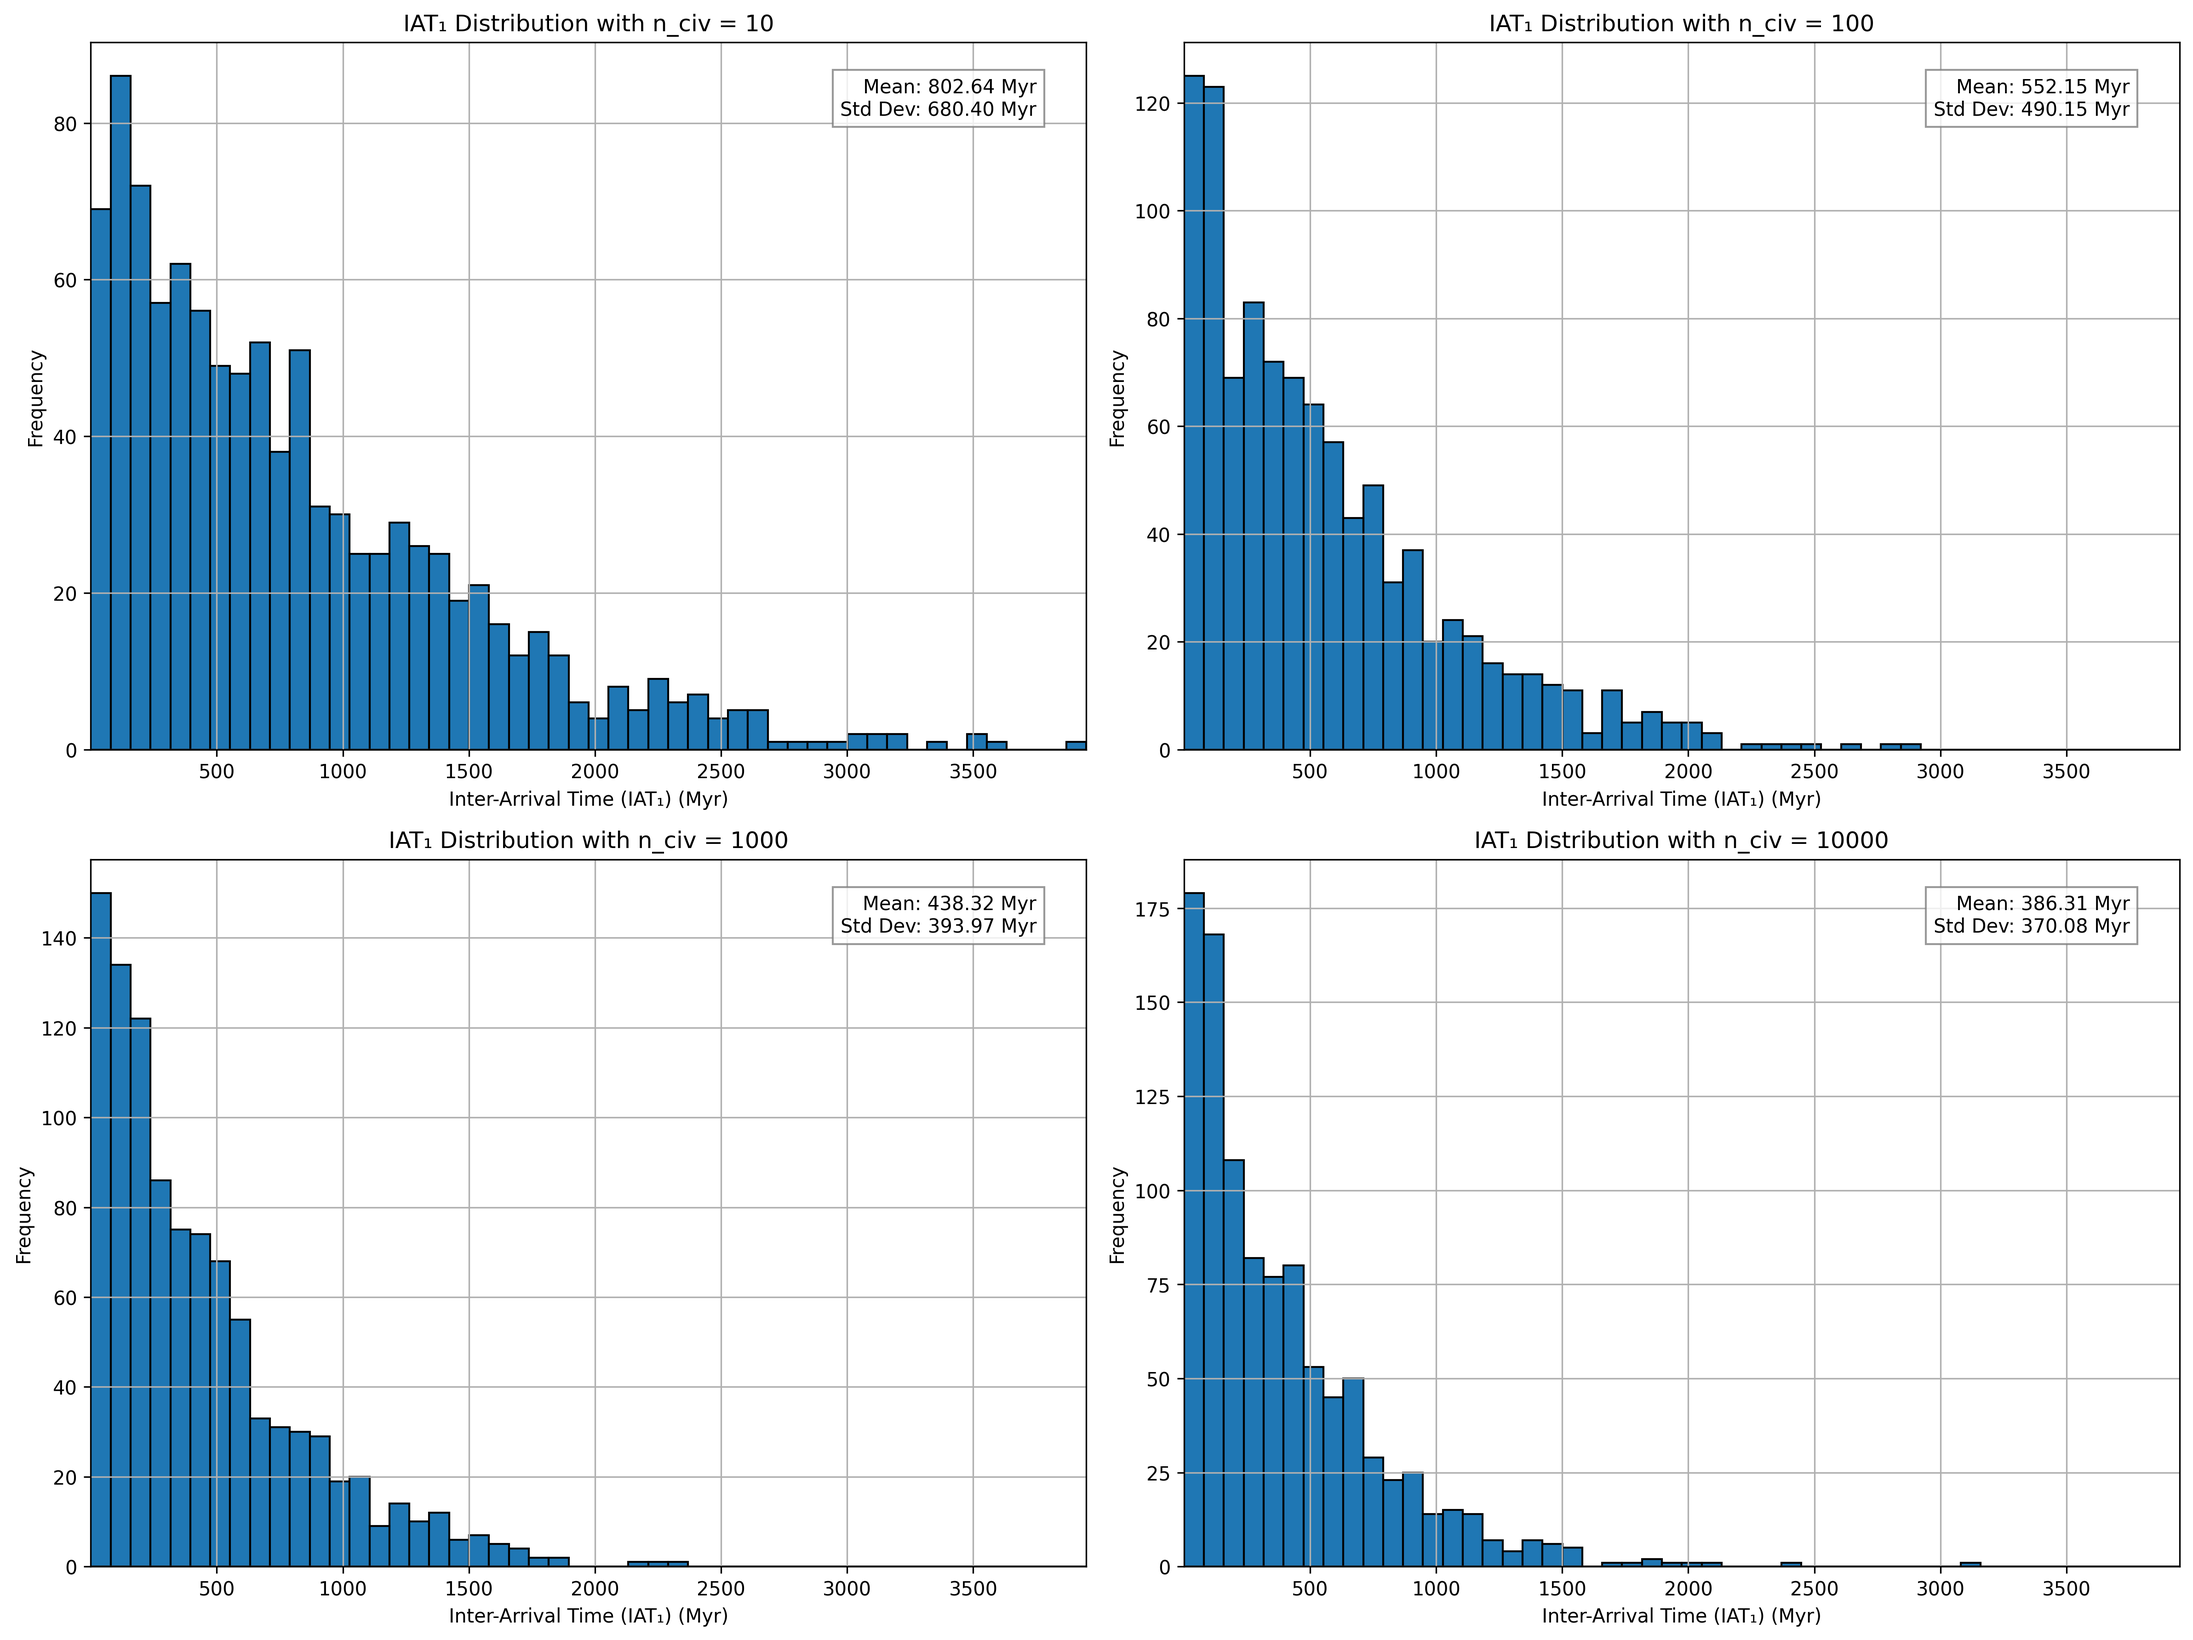
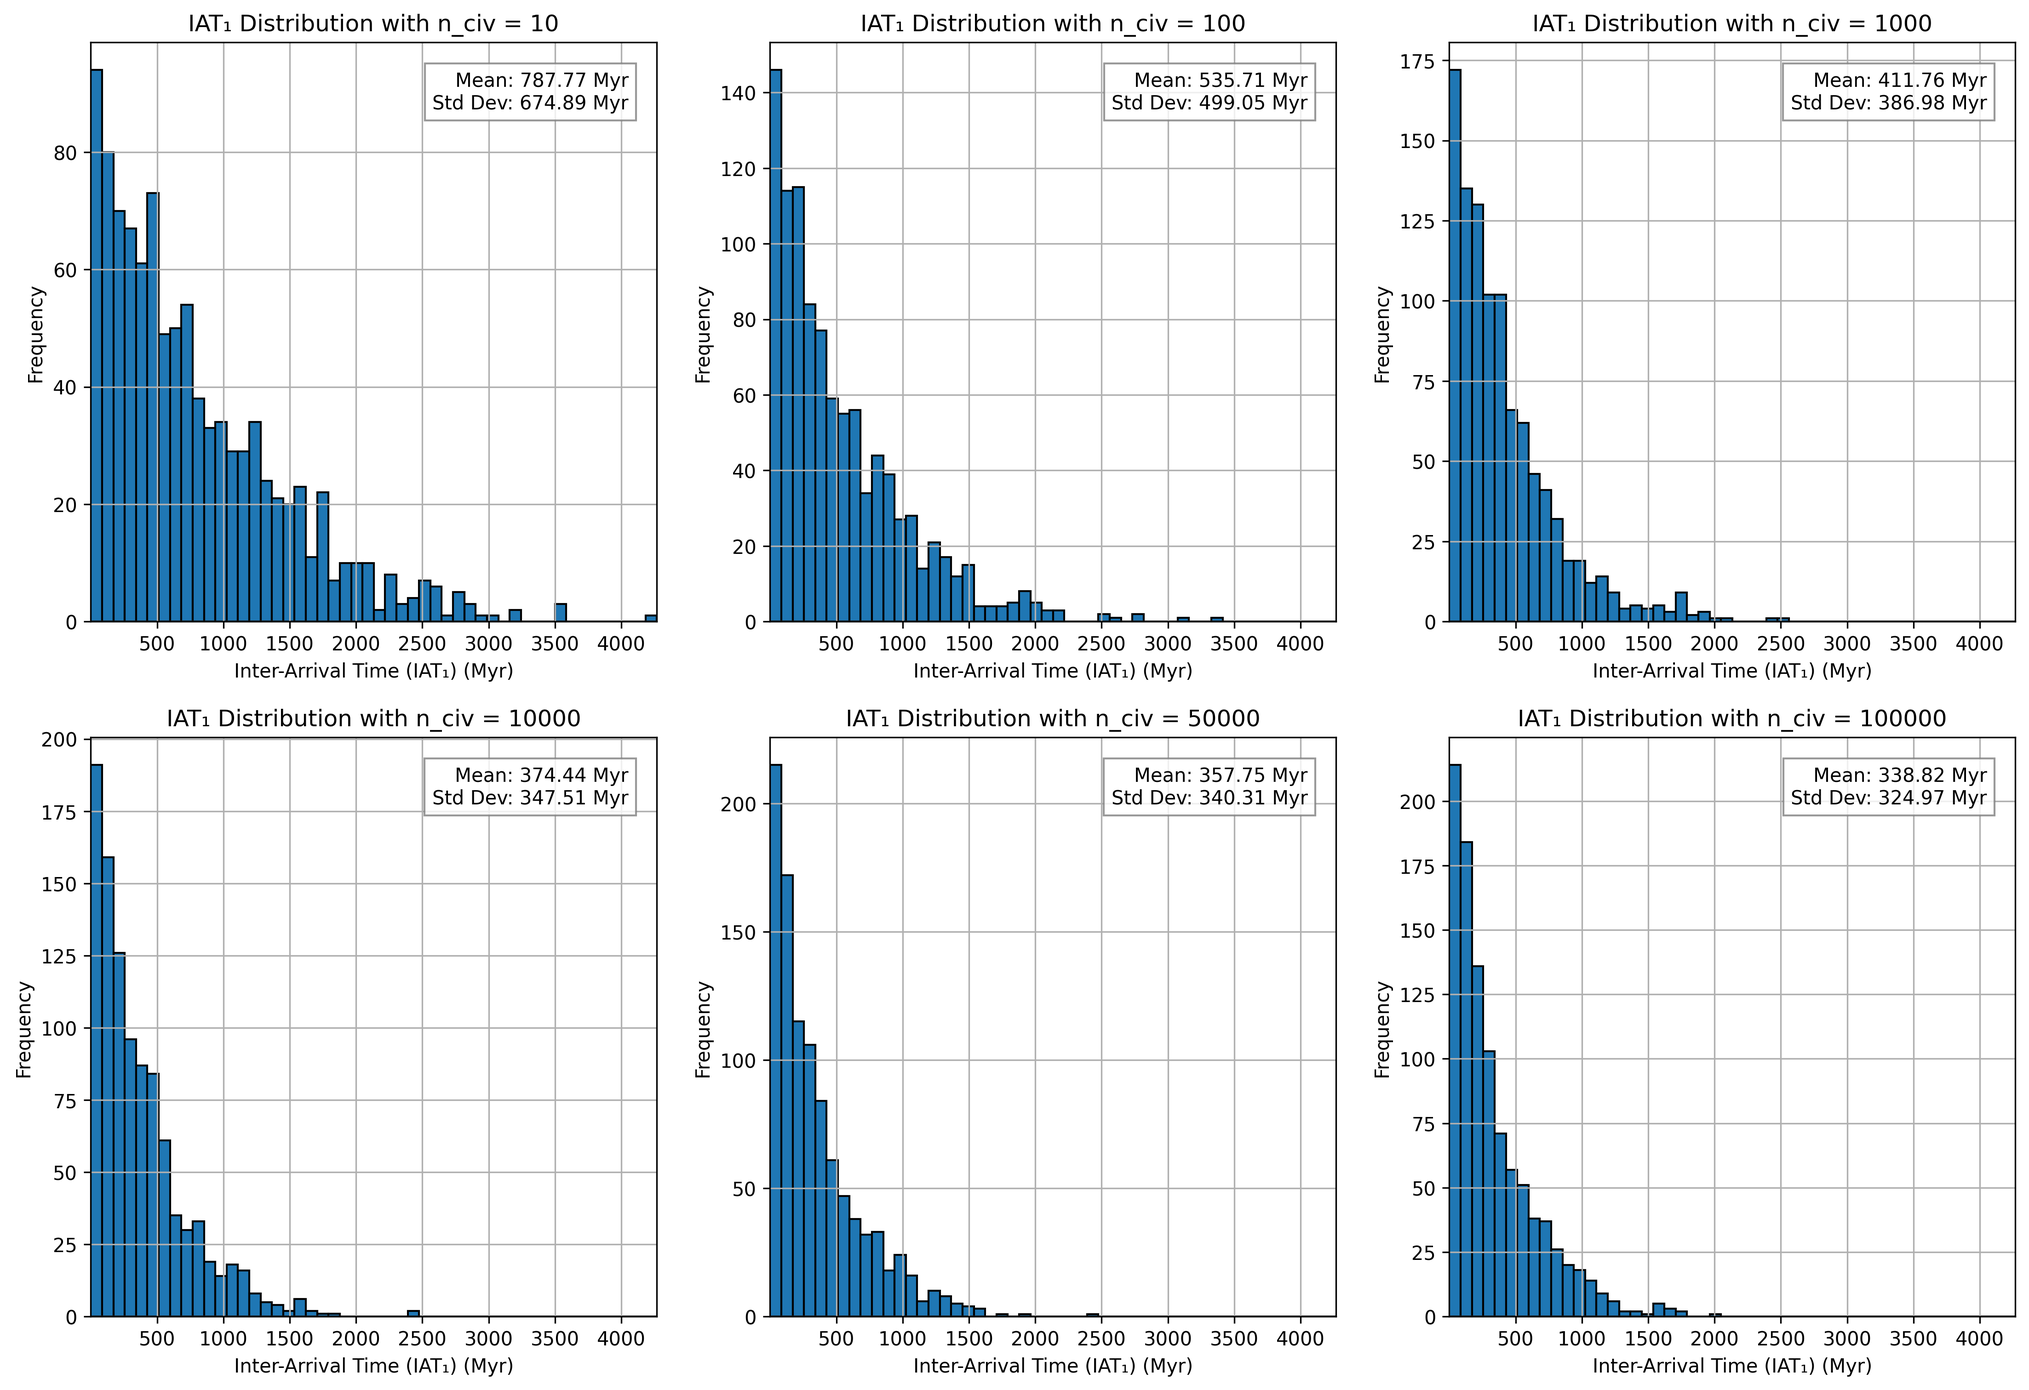
average inter arrival

diff --git a/2_inter_arrival_time/avg_iat_plot.py b/2_inter_arrival_time/avg_iat_plot.py
@@ -1,0 +1,116 @@
+# Simulation: Temporal Dispersion of First Inter-Arrival Time with Average IAT Plot
+
+import numpy as np
+import matplotlib.pyplot as plt
+from scipy.stats import skewnorm
+import sys
+import os
+
+sys.path.append("../1_star_formation")
+from star_formation import star_formation_rate
+
+# Simulation parameters
+n_simulations = 1000  # number of universe simulations
+mu_e = 13000  # mean time of emergence (Myr)
+sigma_e = 1500  # standard deviation for emergence time (Myr)
+
+# Different civilization counts to try
+n_civ_values = [10, 100, 1000, 10000, 50000, 100000]
+
+# Create figures
+fig1, axs = plt.subplots(2, 3, figsize=(18, 12))
+axs = axs.flatten()
+
+fig2, ax_avg = plt.subplots(figsize=(12, 8))
+
+# Track statistics for each n_civ
+stats = {}
+all_iat_times = []
+avg_iats = []
+
+# First pass to collect all IAT times for determining common x-axis range
+for N_civ in n_civ_values:
+    iat1_times = []
+
+    for _ in range(n_simulations):
+        civilization_times = np.random.normal(mu_e, sigma_e, size=N_civ)
+        civilization_times = civilization_times[civilization_times > 0]
+
+        if len(civilization_times) >= 2:
+            sorted_times = np.sort(civilization_times)
+            iat1 = sorted_times[1] - sorted_times[0]
+            iat1_times.append(iat1)
+
+    all_iat_times.extend(iat1_times)
+    stats[N_civ] = {
+        "times": iat1_times,
+        "mean": np.mean(iat1_times),
+        "std": np.std(iat1_times),
+        "min": np.min(iat1_times),
+        "max": np.max(iat1_times),
+    }
+
+    # Add to average IAT data for second plot
+    avg_iats.append((N_civ, stats[N_civ]["mean"]))
+
+# Determine common x-axis range
+min_iat = min(all_iat_times)
+max_iat = max(all_iat_times)
+bins = np.linspace(min_iat, max_iat, 51)  # 51 points = 50 bins
+
+# Second pass to plot with consistent scales
+for i, N_civ in enumerate(n_civ_values):
+    if i < len(axs):  # Make sure we don't exceed the number of subplots
+        iat1_times = stats[N_civ]["times"]
+
+        # Plot histogram on the corresponding subplot
+        axs[i].hist(iat1_times, bins=bins, edgecolor="black")
+        axs[i].set_xlabel("Inter-Arrival Time (IAT₁) (Myr)")
+        axs[i].set_ylabel("Frequency")
+        axs[i].set_title(f"IAT₁ Distribution with n_civ = {N_civ}")
+        axs[i].set_xlim(min_iat, max_iat)
+        axs[i].grid(True)
+
+        # Add IAT statistics as text annotation
+        stats_text = f"Mean: {stats[N_civ]['mean']:.2f} Myr\nStd Dev: {stats[N_civ]['std']:.2f} Myr"
+        axs[i].text(
+            0.95,
+            0.95,
+            stats_text,
+            transform=axs[i].transAxes,
+            verticalalignment="top",
+            horizontalalignment="right",
+            bbox=dict(facecolor="white", alpha=0.8, edgecolor="gray"),
+        )
+
+# Plot average IAT vs number of civilizations
+n_civs, avg_iat_values = zip(*avg_iats)
+ax_avg.plot(n_civs, avg_iat_values, "o-", linewidth=2, markersize=10)
+ax_avg.set_xscale("log")
+ax_avg.set_xlabel("Number of Civilizations (log scale)")
+ax_avg.set_ylabel("Average IAT₁ (Myr)")
+ax_avg.set_title("Average First Inter-Arrival Time vs Number of Civilizations")
+ax_avg.grid(True)
+
+# Add data points labels
+for n_civ, avg in zip(n_civs, avg_iat_values):
+    ax_avg.annotate(
+        f"{avg:.1f}",
+        (n_civ, avg),
+        textcoords="offset points",
+        xytext=(0, 10),
+        ha="center",
+    )
+
+plt.tight_layout()
+fig1.savefig("inter_arrival_times_comparison.png", dpi=300, bbox_inches="tight")
+fig2.savefig("average_iat_vs_nciv.png", dpi=300, bbox_inches="tight")
+plt.close("all")
+
+# Print statistics for each n_civ
+for N_civ, stat in stats.items():
+    print(f"\nStatistics for n_civ = {N_civ}:")
+    print(f"  Mean IAT₁: {stat['mean']:.2f} Myr")
+    print(f"  Std Dev IAT₁: {stat['std']:.2f} Myr")
+    print(f"  Min IAT₁: {stat['min']:.2f} Myr")
+    print(f"  Max IAT₁: {stat['max']:.2f} Myr")

diff --git a/2_inter_arrival_time/inter_arrival_explanation.md b/2_inter_arrival_time/inter_arrival_explanation.md
@@ -16,22 +16,27 @@ The simulation works as follows:
 2. In each universe, civilizations emerge according to a normal distribution with:
    - Mean emergence time: 13,000 Million years (Myr)
    - Standard deviation: 1,500 Million years (Myr)
-3. For each universe, it calculates the time difference between the first two civilizations to emerge
+3. For each universe, it calculates the time difference between the first two civilizations to emerge (IAT₁)
 4. The distribution of these inter-arrival times is plotted and analyzed statistically
 
 ## Key Parameters
 
-- `n_stars`: 1000 (number of stars per simulation)
 - `n_simulations`: 1000 (number of universe simulations)
 - `mu_e`: 13000 (mean time of emergence in Myr)
 - `sigma_e`: 1500 (standard deviation for emergence time in Myr)
 - `n_civ_values`: [10, 100, 1000, 10000] (different civilization counts tested)
 
+## Implementation Details
+
+- The simulation ensures that only valid civilization emergence times (> 0) are considered
+- All simulations use a consistent scale for visualization to allow direct comparison across different civilization counts
+- Statistics are calculated for each universe scenario and presented both as text annotations on the plots and as terminal output
+
 ## Outputs
 
 1. **Visual Output**: A figure with four histograms showing the IAT₁ distribution for each of the civilization counts. The figure is saved as `inter_arrival_times_comparison.png`.
 
-2. **Statistical Analysis**: For each civilization count, the script prints:
+2. **Statistical Analysis**: For each civilization count, the script calculates and displays:
    - Mean IAT₁
    - Standard deviation of IAT₁
    - Minimum IAT₁
@@ -39,15 +44,21 @@ The simulation works as follows:
 
 ## Interpretation
 
-The results help understand how the number of civilizations in a universe affects the likely time gap between the first two emerging intelligent species. As the number of civilizations increases, we generally expect the first inter-arrival time to decrease, because it becomes crowded.
+The results help understand how the number of civilizations in a universe affects the likely time gap between the first two emerging intelligent species. As the number of civilizations increases, we generally expect the first inter-arrival time to decrease, as the probability of civilizations emerging closely together increases.
+
+Some key observations from the simulation:
+
+- Higher civilization counts lead to smaller average inter-arrival times
+- The distribution shape changes significantly as civilization count increases
+- Even with many civilizations, there's still variability in when the first two emerge
 
 ## Dependencies
 
 The script requires:
 
-- NumPy
-- Matplotlib
-- SciPy
+- NumPy (for numerical operations)
+- Matplotlib (for visualization)
+- SciPy (for statistical functions)
 - Custom `star_formation` module from the parent directory
 
 ## Running the Simulation
